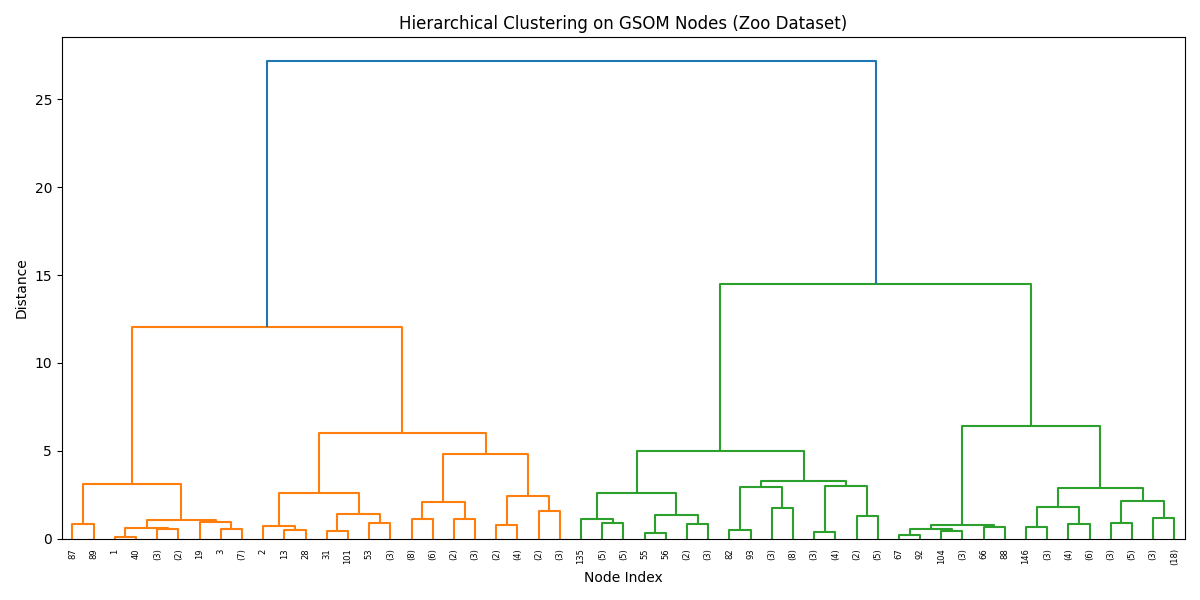
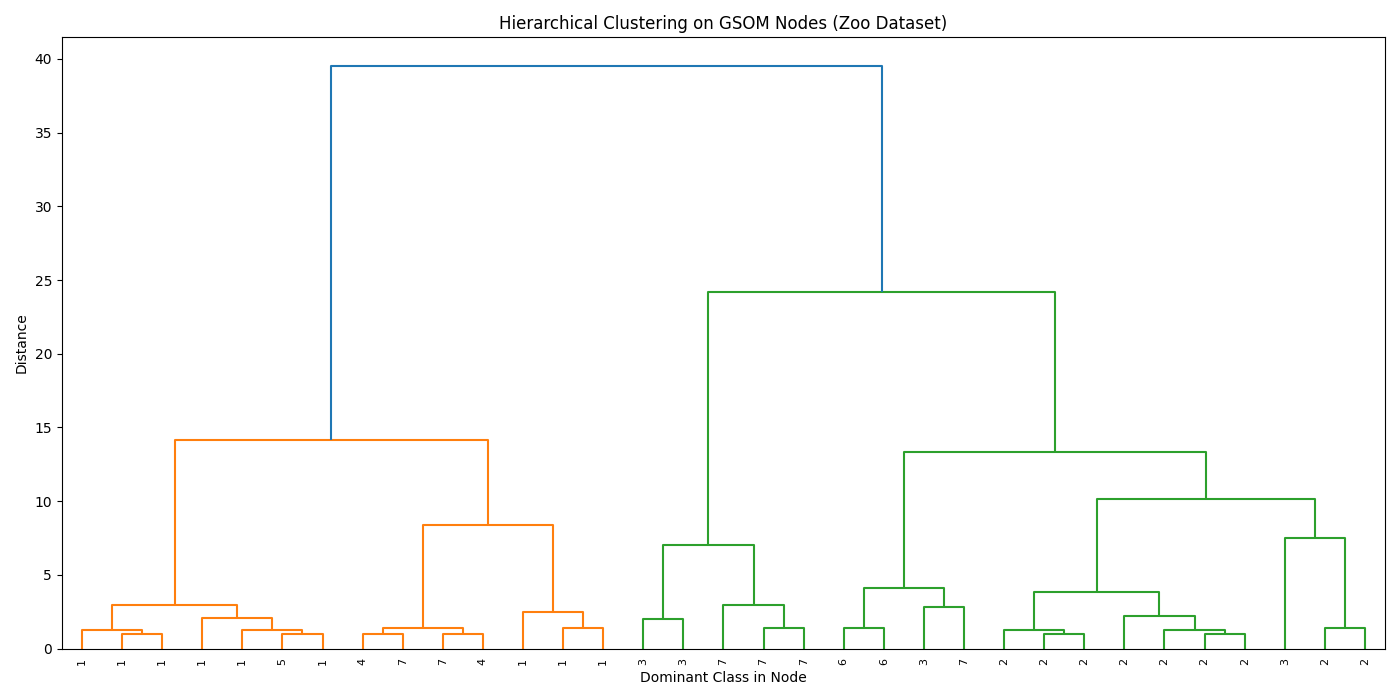
Hierarchical improvement

diff --git a/code/Objective02/GSOM.py b/code/Objective02/GSOM.py
@@ -5,6 +5,14 @@ import scipy
 from tqdm import tqdm
 import math
 from bigtree import Node, findall, find
+import numpy as np
+import pandas as pd
+from scipy.cluster.hierarchy import linkage, dendrogram
+import matplotlib.pyplot as plt
+from collections import Counter
+import ast
+
+
 
 data_filename = "example/data/zoo.txt".replace('\\', '/')
 
@@ -394,42 +402,66 @@ class GSOM:
         return paths
 
 
+import numpy as np
+import pandas as pd
+from scipy.cluster.hierarchy import linkage, dendrogram
+import matplotlib.pyplot as plt
+from collections import Counter
+import ast
+
+
+
 if __name__ == '__main__':
-    import numpy as np
-    import pandas as pd
-    from scipy.cluster.hierarchy import linkage, dendrogram
     import matplotlib.pyplot as plt
+    from scipy.cluster.hierarchy import linkage, dendrogram
+    import ast
+    from collections import Counter
 
+    # Set seed for reproducibility
     np.random.seed(1)
-    df = pd.read_csv("example/data/zoo.txt".replace('\\', '/'))
-    print(df.shape)
 
-    # Extract feature data
+    # Load dataset
+    df = pd.read_csv("example/data/zoo.txt".replace('\\', '/'))
+    print("Dataset shape:", df.shape)
+
+    # Extract features
     data_training = df.iloc[:, 1:17]
 
     # Initialize and train GSOM
-    gsom = GSOM(.83, 16, max_radius=4)
-    gsom.fit(data_training.to_numpy(), 100, 50)
+    gsom = GSOM(spred_factor=0.83, dimensions=16, distance='euclidean', max_radius=4)
+    gsom.fit(data_training.to_numpy(), training_iterations=100, smooth_iterations=50)
 
-    #  Hierarchical clustering on GSOM nodes
-    trained_nodes = gsom.node_list[:gsom.node_count]
-    gsom_node_weights = np.array(trained_nodes)
+    # Predict and save clustering output
+    output = gsom.predict(df, "Name", "label")
+    output.to_csv("output_zoo.csv", index=False)
 
-    Z = linkage(gsom_node_weights, method='ward')
+    # Load output and process for clustering
+    df_out = pd.read_csv("output_zoo.csv")
 
-    # Plot and SAVE dendrogram
-    plt.figure(figsize=(12, 6))
-    dendrogram(Z, truncate_mode='level', p=5)
+    # Filter only active nodes (hit_count > 0)
+    active_nodes = df_out[df_out["hit_count"] > 0].copy()
+    active_nodes["label"] = active_nodes["label"].apply(ast.literal_eval)
+
+    # Use most common label in each node
+    def most_common_label(labels):
+        return Counter(labels).most_common(1)[0][0]
+    active_nodes["major_label"] = active_nodes["label"].apply(most_common_label)
+
+    # Prepare GSOM node weights for clustering
+    X = active_nodes[["x", "y"]].to_numpy()
+    Z = linkage(X, method='ward')
+
+    # Plot dendrogram with labels
+    plt.figure(figsize=(14, 7))
+    dendrogram(Z, labels=active_nodes["major_label"].values, leaf_rotation=90)
     plt.title("Hierarchical Clustering on GSOM Nodes (Zoo Dataset)")
-    plt.xlabel("Node Index")
+    plt.xlabel("Dominant Class in Node")
     plt.ylabel("Distance")
     plt.tight_layout()
-    plt.savefig("hierarchical_clustering_with_zoo_dataset.png")  # Save to file
+    plt.savefig("hierarchical_clustering_with_zoo_dataset.png")
     plt.close()
 
-    # Predict and save output
-    output = gsom.predict(df, "Name", "label")
-    output.to_csv("output.csv", index=False)
+    print("Complete – Dendrogram saved as 'hierarchical_clustering_with_zoo_dataset.png'")
 
-    print("complete")
+
 
